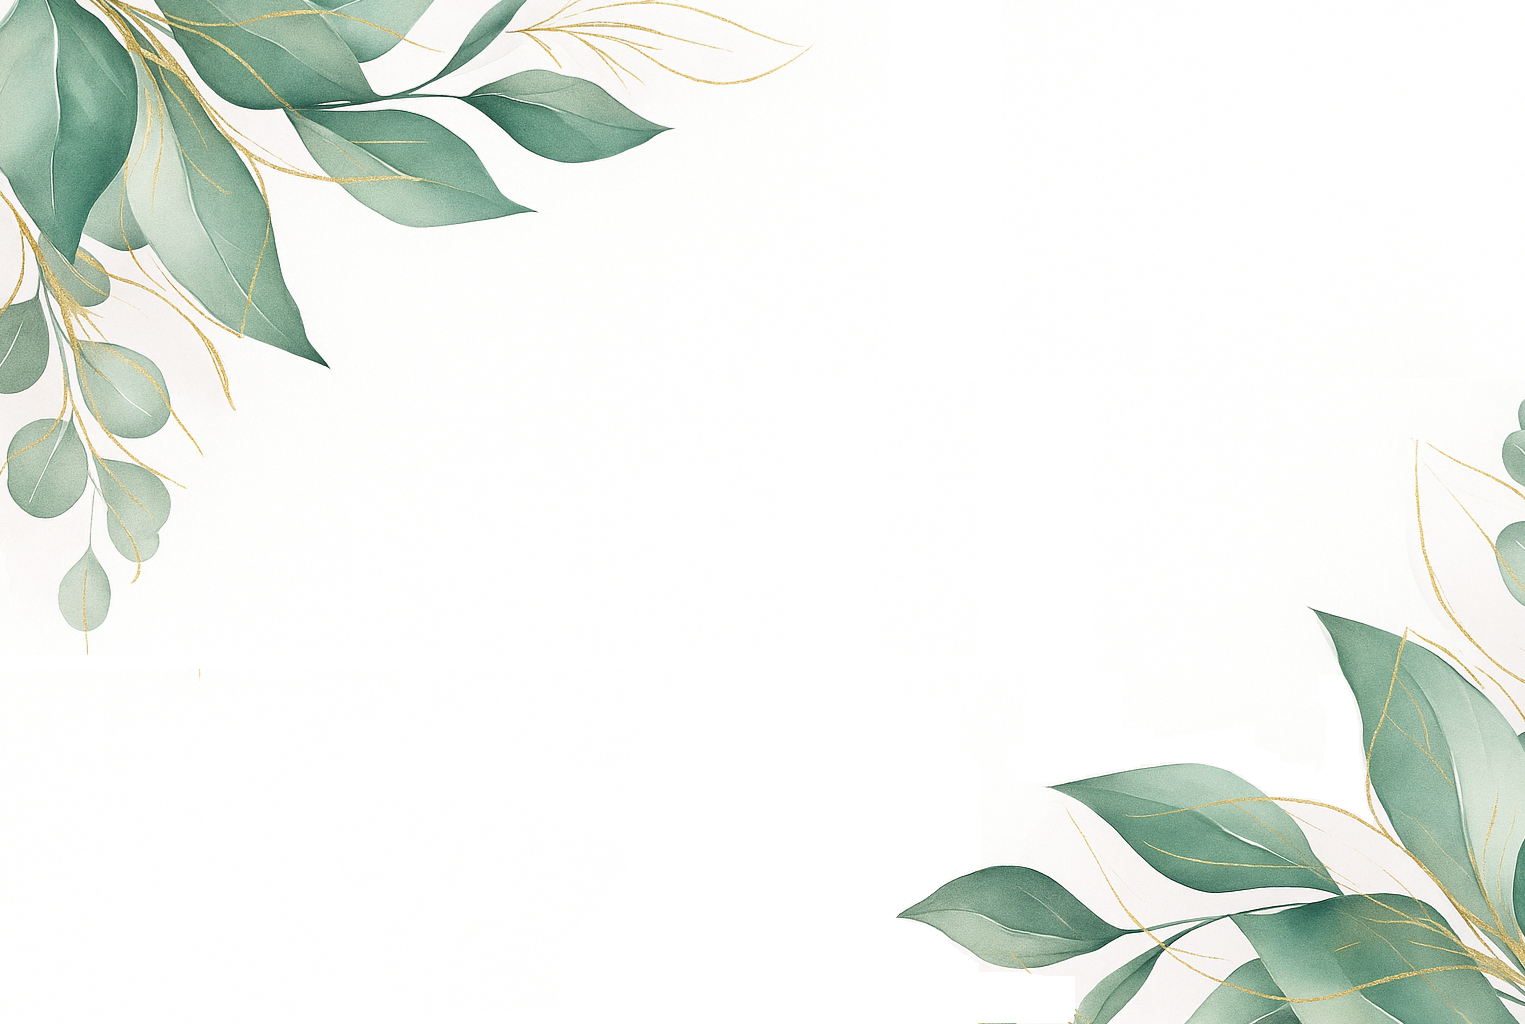
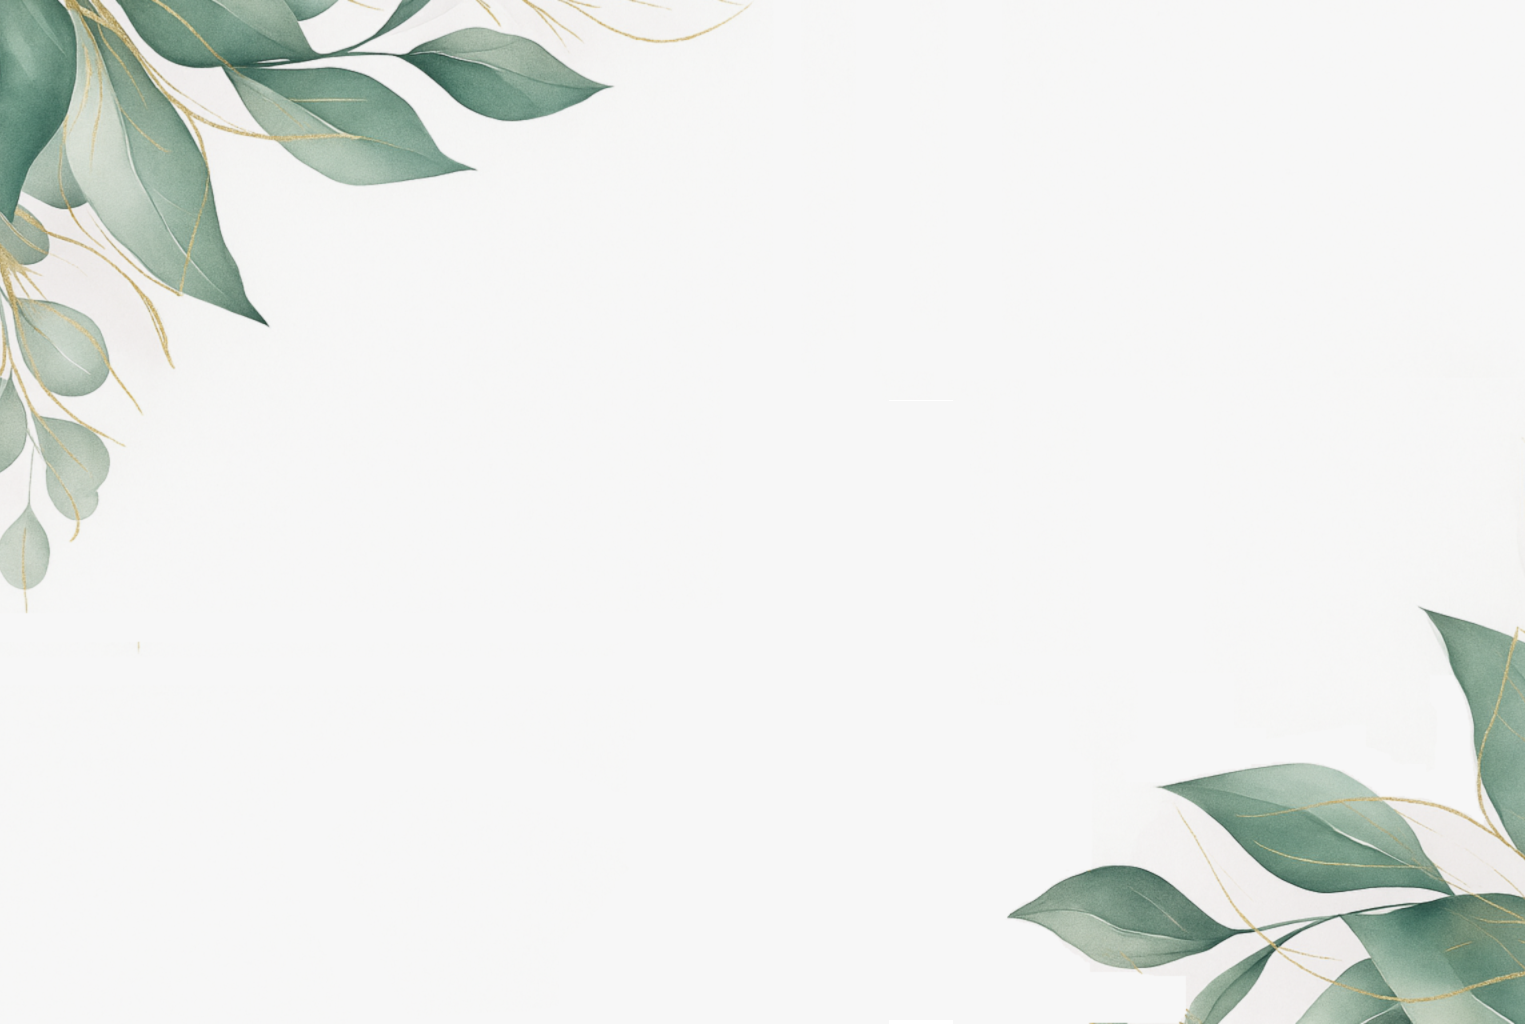
imagen_vestimenta

Changed region(s): [[0.0, 0.0, 0.4931, 0.625], [0.5856, 0.375, 1.0, 1.0]]

diff --git a/index.css b/index.css
@@ -186,7 +186,7 @@ body{
     align-items: center;
     border-top: 1px solid rgba(193, 219, 193, 0.712);
     padding-top: 40px;
-    height: 38em;
+    height: 35em;
     background-color:rgba(250, 250, 250, 0.699);
 }
 
@@ -468,8 +468,10 @@ body{
     background-size: cover;
     background-image: url("./assets/ChatGPT_vestimenta_fondo.png");
     width: 100%;
-   
+    
 }
+
+
 
 
 @media (min-width: 450px) {
